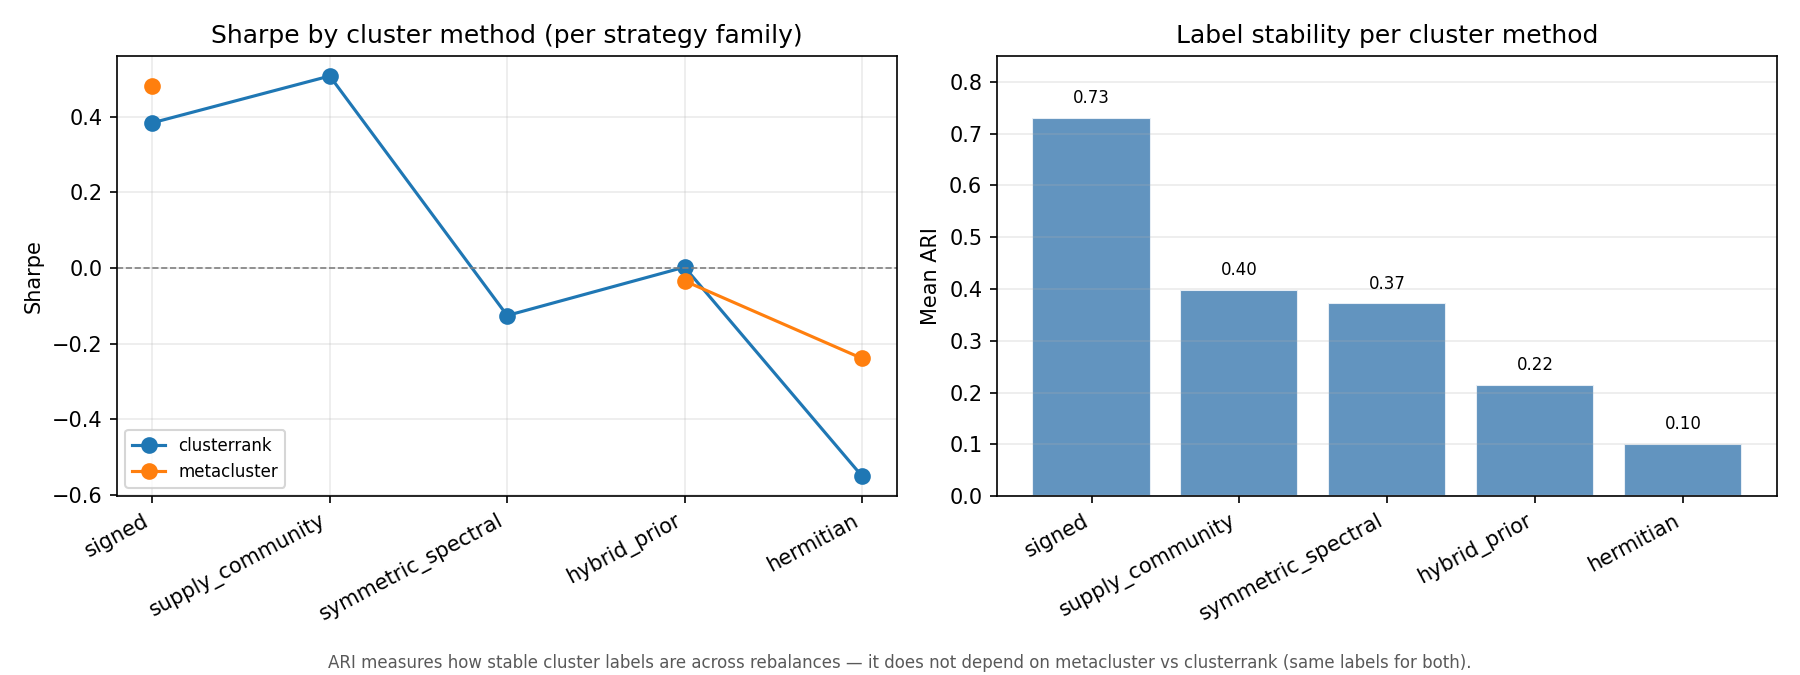
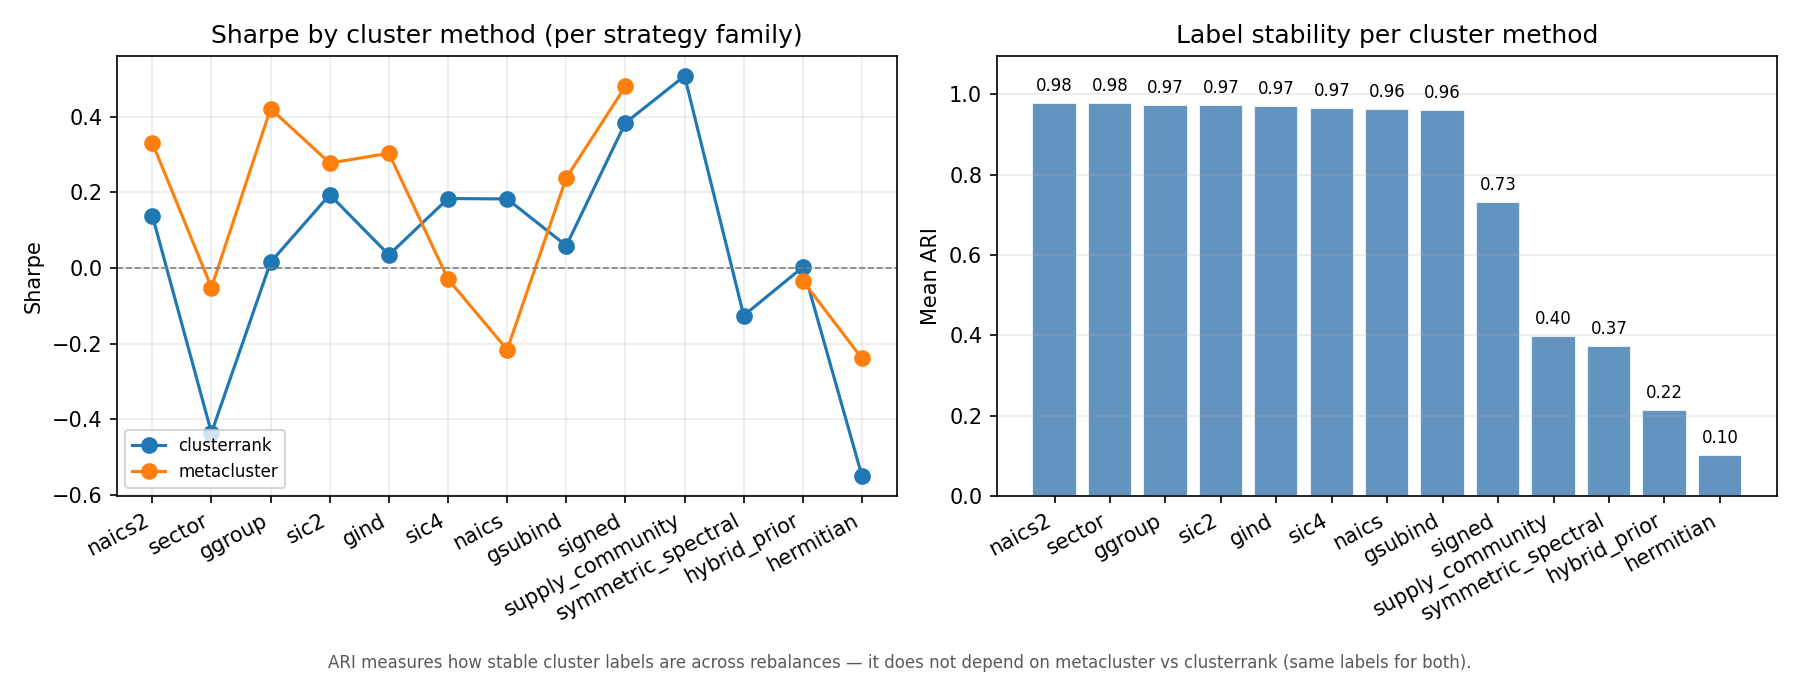
result: update clustering dashboard with extended cluster methods

diff --git a/supply_chain_leadlag/research_pipeline.py b/supply_chain_leadlag/research_pipeline.py
@@ -853,7 +853,10 @@ def run_final_research_pipeline(
                     }
                 )
                 stability_all.extend(stab)
-        pd.DataFrame(cluster_rows).to_csv(out_dir / "cluster_method_comparison.csv", index=False)
+        cluster_cmp = pd.DataFrame(cluster_rows)
+        cluster_cmp.to_csv(out_dir / "cluster_method_comparison.csv", index=False)
+        if not cluster_cmp.empty:
+            _write_cluster_sweep_plots(out_dir, cluster_cmp)
 
     hybrid_daily = pd.DataFrame()
     if "hybrid_sweep" in enabled:
@@ -2080,6 +2083,8 @@ def generate_final_report(
     if (out_dir / "hybrid_alpha_sweep.csv").is_file():
         start.append("| Hybrid α | `hybrid_alpha_sweep.csv` · `plots/methods_comparison.png` |\n")
     _write_methods_comparison_plots(out_dir)
+    if cluster is not None and not cluster.empty:
+        _write_cluster_sweep_plots(out_dir, cluster)
     (out_dir / "START_HERE.md").write_text("".join(start), encoding="utf-8")
 
     n_reb = meta.get("n_rebalances")

diff --git a/results/final_research/report/final_report.md b/results/final_research/report/final_report.md
@@ -24,7 +24,7 @@ Does supply-chain structure stabilize return-based lead-lag?         hybrid_alph
 - Returns: `data/returns_with_gvkey.parquet` · Edges: `data/merged_edges.csv`
 - PIT date column: `filing_date` · Rebalance: `BME`
 - Window: 2010-01-04–2024-12-31 · 12 rebalances · 5461 return assets · 17153 PIT edge rows
-- Pipeline steps in last run: `load, panel`
+- Pipeline steps in last run: `cluster_sweep, load, report`
 
 ## 4. Customer-pressure signal
 At each day \(d\), signal \(s = C^\top r_d\) (customer pressure on suppliers); long–short **suppliers only** with return earned on \(d+1\) (`supplier_pressure` family).
@@ -92,15 +92,19 @@ supplier_pressure         signed tstat_diff    0.041367 0.085974 0.481159     -0
 **Interpretation:** Best cluster×family cell is **clusterrank / supply_community** (Sharpe 0.51). **Signed** clustering works well for metacluster; **supply_community** is best for clusterrank. **Hermitian** and **hybrid_prior** underperform.
 - Metacluster: signed Sharpe 0.48 vs hermitian -0.24.
 
-strategy_family     cluster_method  n_clusters edge_score  hybrid_alpha  ann_return  ann_vol    sharpe  max_drawdown  avg_turnover  cluster_ari_mean  eigenspace_drift_mean  n_rebalances
-    clusterrank   supply_community          10 tstat_diff           NaN    0.052054 0.102657  0.507065     -0.208904           NaN          0.398399                1.77446            12
-    metacluster             signed          10 tstat_diff           NaN    0.050019 0.104267  0.479720     -0.400615           NaN          0.731133                1.77446            12
-    clusterrank             signed          10 tstat_diff           NaN    0.026855 0.070053  0.383356     -0.152914           NaN          0.731133                1.77446            12
-    clusterrank       hybrid_prior          10 tstat_diff           NaN    0.000106 0.056360  0.001877     -0.363305           NaN          0.215135                1.77446            12
-    metacluster       hybrid_prior          10 tstat_diff           NaN   -0.005862 0.169611 -0.034564     -0.619071           NaN          0.215135                1.77446            12
-    clusterrank symmetric_spectral          10 tstat_diff           NaN   -0.012532 0.099479 -0.125974     -0.364925           NaN          0.372646                1.77446            12
-    metacluster          hermitian          10 tstat_diff           NaN   -0.026382 0.110226 -0.239349     -0.530480           NaN          0.101397                1.77446            12
-    clusterrank          hermitian          10 tstat_diff           NaN   -0.031399 0.057055 -0.550340     -0.449463           NaN          0.101397                1.77446            12
+strategy_family   cluster_method  n_clusters edge_score  hybrid_alpha  ann_return  ann_vol   sharpe  max_drawdown  avg_turnover  cluster_ari_mean  eigenspace_drift_mean  n_rebalances
+    clusterrank supply_community          10 tstat_diff           NaN    0.052054 0.102657 0.507065     -0.208904           NaN          0.398399                1.77446            12
+    metacluster           signed          10 tstat_diff           NaN    0.050019 0.104267 0.479720     -0.400615           NaN          0.731133                1.77446            12
+    metacluster           ggroup          10 tstat_diff           NaN    0.051813 0.123175 0.420641     -0.230714           NaN          0.974179                1.77446            12
+    clusterrank           signed          10 tstat_diff           NaN    0.026855 0.070053 0.383356     -0.152914           NaN          0.731133                1.77446            12
+    metacluster           naics2          10 tstat_diff           NaN    0.034230 0.103587 0.330447     -0.308423           NaN          0.978027                1.77446            12
+    metacluster             gind          10 tstat_diff           NaN    0.032965 0.108857 0.302823     -0.350419           NaN          0.970007                1.77446            12
+    metacluster             sic2          10 tstat_diff           NaN    0.061017 0.220382 0.276868     -0.517821           NaN          0.972333                1.77446            12
+    metacluster          gsubind          10 tstat_diff           NaN    0.014403 0.060514 0.238009     -0.130435           NaN          0.959779                1.77446            12
+    clusterrank             sic2          10 tstat_diff           NaN    0.034272 0.177249 0.193357     -0.479803           NaN          0.972333                1.77446            12
+    clusterrank             sic4          10 tstat_diff           NaN    0.045730 0.249575 0.183231     -0.640818           NaN          0.966710                1.77446            12
+    clusterrank            naics          10 tstat_diff           NaN    0.049869 0.273798 0.182138     -0.707776           NaN          0.964343                1.77446            12
+    clusterrank           naics2          10 tstat_diff           NaN    0.016908 0.122295 0.138254     -0.329614           NaN          0.978027                1.77446            12
 
 ![Cluster sweep](../plots/cluster_sweep_dashboard.png)
 
